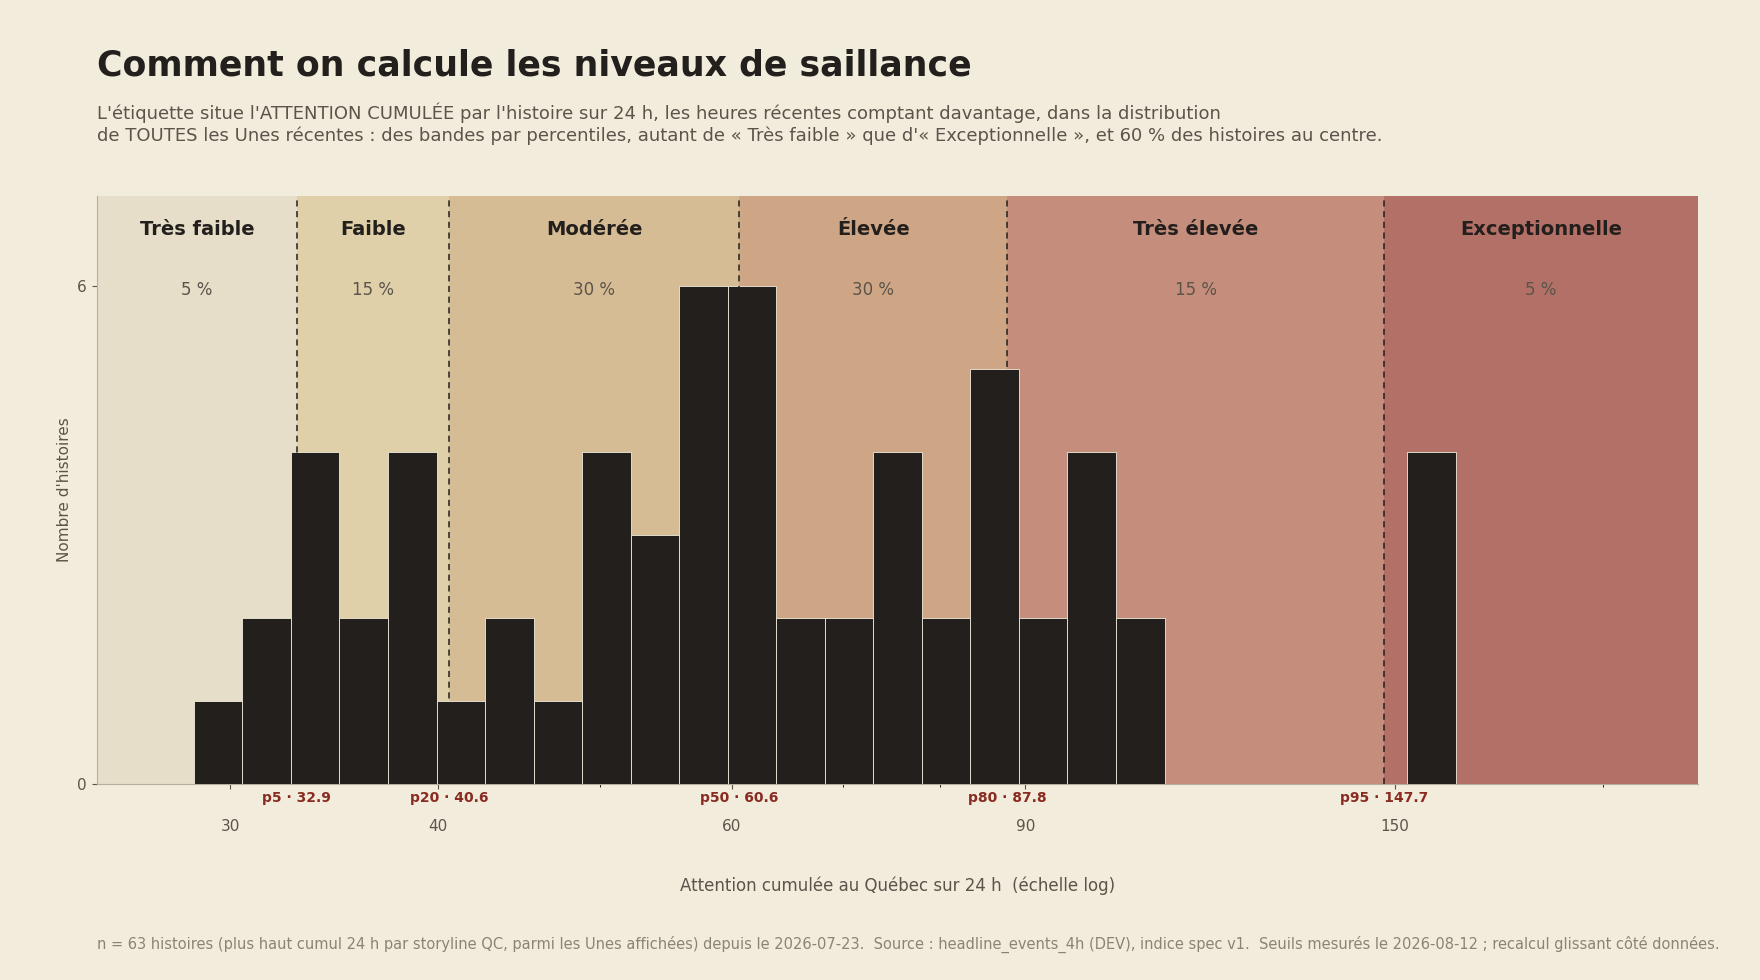
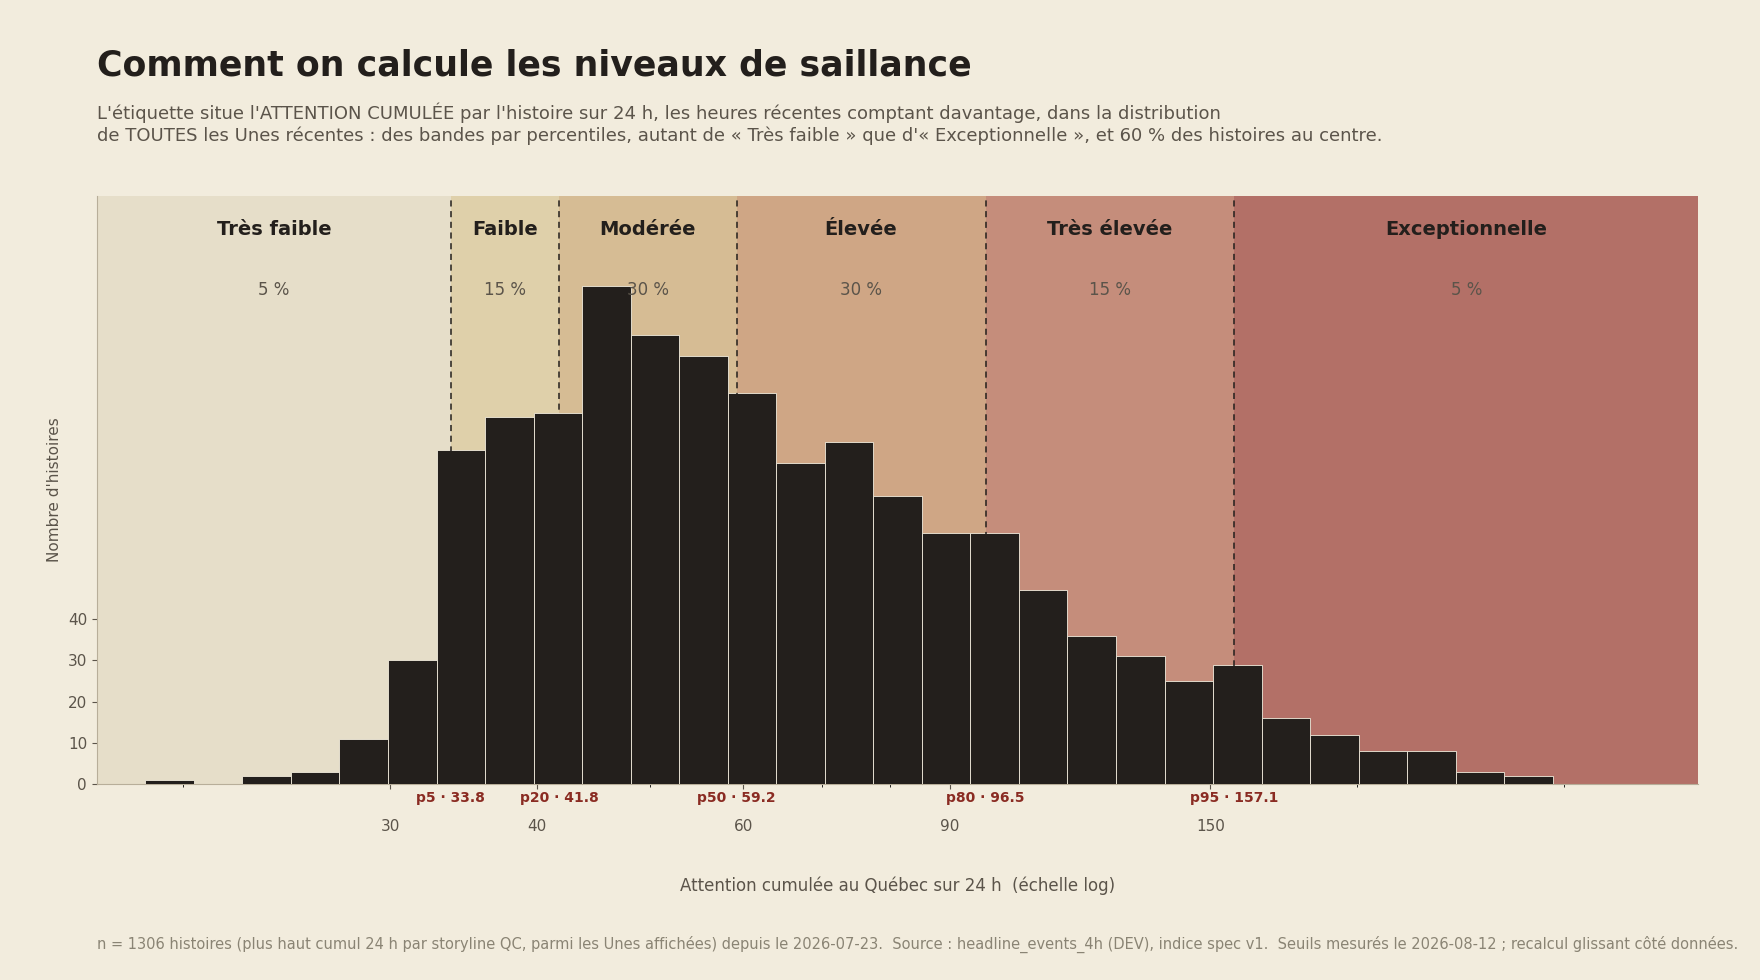
fix(saillance) : calibrer les grilles sur l'ANNÉE, pas sur 20 jours
Question d'Adrien : « fallait pas calculer les seuils sur une année de
données ? » Oui. Cette PR posait la fenêtre courte, et c'était une erreur.

CE QUI CLOCHAIT. `cutover_grilles_specv1.R` est câblé sur FROM = 2026-07-23
parce que `headline_events_4h` ne commence qu'au 2026-05-14 dans Athena et
n'est en régime de regroupement LLM qu'après le 23-07 : 122 blocs, n = 63. La
mesure du 11-08 au soir disait déjà ce que ça coûte — cette grille émet
**68 % d'« Exceptionnelle » de trop** (111 contre 66 sur l'année) et 15,5 %
des storylines y changent de bande. C'est la bande la plus visible du site.
J'ai suivi la marche générale de #429 sans tenir compte de la mesure qui la
corrigeait.

CE QUI CHANGE. `grilles_annee_specv1.R` — même recomposition spec v1, même
`grille_cumul`, mêmes filtres frontend, seule la SOURCE change (rejeu local
`out/year_llm.rds`, aucun appel AWS ; le rejeu n'ayant aucun titre LLM, le
filtre porte sur `event_title_raw`). Fenêtre 2025-05-17 → 2026-08-07 :
448 jours, 2 683 blocs, `storyline_id` peuplé à 100 %.

  cumul QC   32,9/40,6/60,6/87,8/147,7 → 33,8/41,8/59,2/96,5/157,1  (n=1306)
  cumul ROC  19,5/27,7/40,4/64,1/149,9 → 20,0/30,4/45,4/85,0/150,6  (n=1427)
  bloc QC    11,7/17,4/21,0/37,1/54,9  → 12,1/17,4/21,5/41,9/63,6   (n=8740)
  bloc ROC   11,5/15,9/19,8/41,2/61,4  → 11,3/15,9/20,0/37,2/59,6   (n=8633)

Mes chiffres retrouvent exactement ceux mesurés le 11-08, donc la
reconstruction est la bonne. Figure régénérée : les bandes réelles tombent à
[…]

diff --git a/lib/data/salienceCutover.ts b/lib/data/salienceCutover.ts
@@ -47,17 +47,35 @@ export const NEW_INDEX_SCALE = 100;
 // le classement changera de grille sans qu'une ligne de code bouge. C'est le
 // mécanisme voulu, mais il vaut d'être su — vérifier la concordance ce jour-là.
 //
-// MESURE (script `_chantiers-vitrine/banc-235/cutover_grilles_specv1.R`,
-// re-roulé le 2026-08-12 au matin de la bascule, scan Athena 4,3 Mo) :
+// MESURE (script `_chantiers-vitrine/banc-235/grilles_annee_specv1.R`, roulé le
+// 2026-08-12, AUCUN appel AWS — le rejeu local `out/year_llm.rds`) :
 //   · valeurs RECOMPOSÉES depuis le JSON `articles` à la spec v1, jamais lues
 //     dans la colonne publiée : depuis le bloc 15-19 du 2026-08-08 celle-ci
 //     mélange ancienne et nouvelle formule (#224), et calibrer sur un mélange
 //     est précisément le piège que #224 documente ;
-//   · fenêtre = régime regroupement-LLM (≥ 2026-07-23), 122 blocs ;
+//   · fenêtre = 2025-05-17 → 2026-08-07, soit 448 jours et 2 683 blocs,
+//     `storyline_id` peuplé à 100 % (régime de regroupement LLM partout, donc
+//     comparable au régime courant) ;
 //   · population = celle du frontend (dédup event_id préf-QC, exclusion des
 //     Unes américaines, titre requis), donc plus étroite que celle de #224 ;
 //   · conventions de calibration IDENTIQUES à scripts/fetch_data.R, grille par
 //     grille (voir chaque constante).
+//
+// ⚠ POURQUOI L'ANNÉE ET PAS LES 20 DERNIERS JOURS. La première version de cette
+// PR calibrait sur la seule fenêtre qu'Athena permet (≥ 2026-07-23, 122 blocs,
+// n = 63) parce que `headline_events_4h` ne commence qu'au 2026-05-14. Mesuré :
+// cette fenêtre courte émet **68 % d'« Exceptionnelle » de trop** (111 contre 66
+// sur l'année) et 15,5 % des storylines y changent de bande. C'est la bande la
+// plus visible du site. La grille d'année ne peut venir que du rejeu local, ou
+// d'aws-refiners#280 une fois la table peuplée.
+//
+// ⛔ CE N'EST TOUJOURS PAS `ref-AAAA`, la référence figée de vitrine#430 A0.
+// 95,5 % des jours de ce rejeu tournent à panel QC = 5 (TVA exclu) ; après le
+// recompute, TVA est partout et le seul changement de dénominateur ferait
+// passer le p95 de 157,1 à ~147,2. Geler ici, ce serait figer une année qui a
+// changé d'instrument en cours de route. L'ordre reste : réparer → rejouer →
+// geler, et la cible arrêtée avec Adrien le 2026-08-12 est `ref-2025`, une
+// année CIVILE complète, après le recompute.
 //
 // CONTRÔLE de la mesure : rejouée sur la convention de #224 (pic par storyline),
 // elle rend 19,6 / 22,1 / 38,5 / 56,2 / 65,3 contre 19,8 / 22,2 / 38,6 / 55,4 /
@@ -108,12 +126,33 @@ type Thresholds = { faible: number; moyenne: number; eleve: number; tresEleve: n
  *  à ce titre qu'il justifie le retrait de la béquille, pas au titre d'une
  *  impossibilité mathématique. À revérifier à chaque recalibration.
  *
- *  ✅ REVÉRIFIÉ le 2026-08-12, au matin de la bascule, et la consigne ci-dessus
- *  est désormais OUTILLÉE : `cutover_grilles_specv1.R` mesure lui-même le plus
- *  fort mono-média AU CUMUL (il ne donnait que celui des pics) et refuse la
- *  bascule si l'invariant tombe. Sur 122 blocs : max = 44,7 sur 2 storylines
- *  mono, médiane 60,6 → tenu, marge 15,9. Le maximum n'a pas bougé d'un dixième
- *  en quatre jours, ce qui est en soi rassurant sur sa stabilité.
+ *  ✅ REVÉRIFIÉ le 2026-08-12, et la consigne ci-dessus est désormais OUTILLÉE :
+ *  `cutover_grilles_specv1.R` mesure lui-même le plus fort mono-média AU CUMUL
+ *  (il ne donnait que celui des pics) et pèse l'ampleur d'un éventuel
+ *  dépassement.
+ *
+ *  🔎 ET LE CAS THÉORIQUE CI-DESSUS S'EST PRODUIT — une fois en 448 jours.
+ *  Sur la fenêtre courte (122 blocs) le plus fort mono-média vaut 44,7 contre
+ *  une médiane de 60,6. Sur l'ANNÉE (n = 1 306), il vaut 63,2 contre une médiane
+ *  de 59,2 : il franchit donc la médiane, de 4,0 points sur une bande large de
+ *  37,3, et atterrit dans le premier dixième d'« Élevée ».
+ *
+ *  Le cas est `story-hiroshima-0dc148fc` : Le Devoir, du samedi 2 août 2025 16 h
+ *  au dimanche 3 août 12 h, cinq blocs d'affilée, `outlets_qc = 1` tout du long
+ *  — le dossier de fin de semaine sur les 80 ans d'Hiroshima et Nagasaki. Une
+ *  commémoration datée d'avance, tenue en Une pendant que l'actualité chaude du
+ *  samedi soir se tarit, qu'aucun autre média n'avait de raison de suivre.
+ *
+ *  Ça ne remet PAS l'invariant en cause, et c'est même sa démonstration : la
+ *  Visibilité de ce dossier est au plancher (1 média sur 6), et le mécanisme
+ *  non-compensatoire a écrasé vingt heures de Une continue jusqu'à le ramener
+ *  au niveau d'une histoire médiane — 63,2 quand le p95 est à 157,1. L'ancien
+ *  indice, qui comptait le temps en Une, en aurait fait une nouvelle majeure.
+ *  Décision d'Adrien (2026-08-12) : 1 cas sur 37 mono, c'est une exception, pas
+ *  une rupture ; la béquille reste retirée. Le script ne parle de rupture que
+ *  si le dépassement devient courant (> 10 % des mono) ou franchement haut
+ *  (au-delà du p80) — un test binaire `max > médiane` escaladait un signal
+ *  faible.
  *
  *  Conséquence assumée : une histoire portée par un seul média peut désormais
  *  afficher « Modérée », dont l'infobulle dit « environ 65 % des Unes sont plus
@@ -124,7 +163,7 @@ type Thresholds = { faible: number; moyenne: number; eleve: number; tresEleve: n
  *  grille des CUMULS qui pilote le badge depuis vitrine#314 (27-07). Les deux
  *  ne sont pas la même distribution — d'où cette mesure dédiée. */
 export const NEW_SUM_QC_THRESHOLDS: Thresholds =
-  { faible: 32.9, moyenne: 40.6, eleve: 60.6, tresEleve: 87.8, extreme: 147.7 };
+  { faible: 33.8, moyenne: 41.8, eleve: 59.2, tresEleve: 96.5, extreme: 157.1 };
 
 /** Grille du niveau PAR BLOC (lecture au survol de la trajectoire) : réplique de
  *  `calibration_metric("salience_index_qc")`, toutes les valeurs > 0. n = 403.
@@ -132,7 +171,7 @@ export const NEW_SUM_QC_THRESHOLDS: Thresholds =
  *  Une, pas sur la lecture d'un bloc isolé — l'étendre ici serait une décision
  *  neuve, qui n'appartient pas à cette PR. */
 export const NEW_BLOCK_QC_THRESHOLDS: Thresholds =
-  { faible: 11.7, moyenne: 17.4, eleve: 21.0, tresEleve: 37.1, extreme: 54.9 };
+  { faible: 12.1, moyenne: 17.4, eleve: 21.5, tresEleve: 41.9, extreme: 63.6 };
 
 /** Côté ROC (bout de ligne du radar Deux solitudes) : mêmes conventions, avec
  *  `min_media_secondary = 1` comme fetch_data.R. n = 75.
@@ -156,12 +195,12 @@ export const NEW_BLOCK_QC_THRESHOLDS: Thresholds =
  *  quel que soit son nombre de médias, des deux côtés. L'asymétrie des seuils
  *  n'était pas la cause. */
 export const NEW_SUM_ROC_THRESHOLDS: Thresholds =
-  { faible: 19.5, moyenne: 27.7, eleve: 40.4, tresEleve: 64.1, extreme: 149.9 };
+  { faible: 20.0, moyenne: 30.4, eleve: 45.4, tresEleve: 85.0, extreme: 150.6 };
 
 /** Repli transitoire du côté ROC (scores par bloc), utilisé seulement si la
  *  grille cumulée ROC manque. n = 381. */
 export const NEW_BLOCK_ROC_THRESHOLDS: Thresholds =
-  { faible: 11.5, moyenne: 15.9, eleve: 19.8, tresEleve: 41.2, extreme: 61.4 };
+  { faible: 11.3, moyenne: 15.9, eleve: 20.0, tresEleve: 37.2, extreme: 59.6 };
 
 /** Passe une grille publiée en unités brutes [0,1] à l'échelle d'affichage.
  *  `null` reste `null` : c'est le signal « pas de calibration → prends le repli ». */

diff --git a/public/methodologie/index.html b/public/methodologie/index.html
@@ -572,7 +572,7 @@
     </div>
     <p class="metho-body">Les bandes sont symétriques&nbsp;: autant de « Très faible » que d'« Exceptionnelle », l'essentiel au centre. La médiane tombe entre « Modérée » et « Élevée », de sorte qu'aucune bande ne représente « la moyenne ». Les seuils sont recalculés à chaque mise à jour sur l'historique récent disponible, de sorte qu'« habituel » suit l'évolution réelle de l'actualité plutôt qu'une saison figée; à défaut, on retombe sur des seuils de référence fixes. Lorsque la façon de mesurer la saillance change, cet historique de référence repart de ce changement.</p>
     <p class="metho-body"><strong>Cette référence est provisoire, et il faut le savoir pour lire les niveaux.</strong> Parce qu'elle se recalcule sur l'historique disponible, une même valeur peut changer d'étiquette lorsque la distribution bouge sous elle&nbsp;: un niveau publié aujourd'hui se rapporte à la distribution du moment, et non à une référence datée. L'indice lui-même, lui, ne bouge pas&nbsp;— il est absolu par construction, et deux valeurs égales mesurent la même chose quelle que soit l'année. C'est la <em>lentille</em> qui est encore mobile, pas l'instrument. Une référence figée sur une année complète, datée et versionnée, est à l'étude pour y remédier. Le jour où elle sera posée, le changement sera <strong>annoncé</strong>&nbsp;: ou bien les niveaux déjà publiés resteront rattachés à la référence sous laquelle ils ont été calculés, ou bien tout sera recalculé sous la nouvelle et ce sera dit. Jamais un mélange des deux, et jamais en silence.</p>
-    <p class="metho-body">Une propriété mérite d'être signalée, parce qu'elle ne vient d'aucune règle ajoutée&nbsp;: une histoire portée par <strong>un seul média</strong> reste très bas sur l'échelle. La facette Visibilité y est presque nulle, et comme les trois facettes se multiplient au lieu de s'additionner, aucune des deux autres ne peut compenser&nbsp;— ni le nombre d'articles, ni le temps passé en Une. C'est la traduction d'un principe simple&nbsp;: la saillance décrit une attention <em>collective</em>, et un média seul, aussi insistant soit-il, ne fait pas un agenda. Sur toute la période observée, la plus forte histoire de ce type est restée <strong>nettement sous le niveau «&nbsp;Élevée&nbsp;»</strong>. Ce plafond est un constat de mesure et non une impossibilité&nbsp;: un média qui garderait seul une histoire en Une sans interruption pendant vingt-quatre heures pourrait en théorie le franchir. Ce cas ne s'est jamais présenté, et cette vérification est refaite à chaque recalibration.</p>
+    <p class="metho-body">Une propriété mérite d'être signalée, parce qu'elle ne vient d'aucune règle ajoutée&nbsp;: une histoire portée par <strong>un seul média</strong> reste très bas sur l'échelle. La facette Visibilité y est presque nulle, et comme les trois facettes se multiplient au lieu de s'additionner, aucune des deux autres ne peut compenser&nbsp;— ni le nombre d'articles, ni le temps passé en Une. C'est la traduction d'un principe simple&nbsp;: la saillance décrit une attention <em>collective</em>, et un média seul, aussi insistant soit-il, ne fait pas un agenda. Ce plafond est un constat de mesure et non une impossibilité&nbsp;: un média qui garderait seul une histoire en Une pendant près d'une journée entière peut le franchir. Sur quatorze mois, le cas s'est présenté <strong>une fois</strong>&nbsp;— un dossier de fond qu'un quotidien a tenu seul en Une une vingtaine d'heures, un samedi d'été, à l'occasion d'une commémoration. Cette histoire a tout juste atteint le bas du niveau «&nbsp;Élevée&nbsp;», loin des valeurs qu'atteignent les nouvelles suivies par l'ensemble des médias&nbsp;: vingt heures de Une continue, chez un seul journal, ne pèsent guère plus qu'une histoire ordinaire suivie par tous. La vérification est refaite à chaque recalibration.</p>
     <figure class="metho-figure">
       <img src="saillance-niveaux.png" alt="Distribution de l'attention cumulée sur 24 heures des Unes récentes, découpée en six bandes de percentiles, de la plus faible à la plus élevée.">
       <figcaption>Distribution réelle de l'attention cumulée sur 24 heures de toutes les Unes récentes, répartie en six bandes de percentiles. Échelle logarithmique.</figcaption>

diff --git a/docs/methodologie-03-spec-v1.html b/docs/methodologie-03-spec-v1.html
@@ -63,7 +63,7 @@
     </div>
     <p class="metho-body">Les bandes sont symétriques&nbsp;: autant de « Très faible » que d'« Exceptionnelle », l'essentiel au centre. La médiane tombe entre « Modérée » et « Élevée », de sorte qu'aucune bande ne représente « la moyenne ». Les seuils sont recalculés à chaque mise à jour sur l'historique récent disponible, de sorte qu'« habituel » suit l'évolution réelle de l'actualité plutôt qu'une saison figée; à défaut, on retombe sur des seuils de référence fixes. Lorsque la façon de mesurer la saillance change, cet historique de référence repart de ce changement.</p>
     <p class="metho-body"><strong>Cette référence est provisoire, et il faut le savoir pour lire les niveaux.</strong> Parce qu'elle se recalcule sur l'historique disponible, une même valeur peut changer d'étiquette lorsque la distribution bouge sous elle&nbsp;: un niveau publié aujourd'hui se rapporte à la distribution du moment, et non à une référence datée. L'indice lui-même, lui, ne bouge pas&nbsp;— il est absolu par construction, et deux valeurs égales mesurent la même chose quelle que soit l'année. C'est la <em>lentille</em> qui est encore mobile, pas l'instrument. Une référence figée sur une année complète, datée et versionnée, est à l'étude pour y remédier. Le jour où elle sera posée, le changement sera <strong>annoncé</strong>&nbsp;: ou bien les niveaux déjà publiés resteront rattachés à la référence sous laquelle ils ont été calculés, ou bien tout sera recalculé sous la nouvelle et ce sera dit. Jamais un mélange des deux, et jamais en silence.</p>
-    <p class="metho-body">Une propriété mérite d'être signalée, parce qu'elle ne vient d'aucune règle ajoutée&nbsp;: une histoire portée par <strong>un seul média</strong> reste très bas sur l'échelle. La facette Visibilité y est presque nulle, et comme les trois facettes se multiplient au lieu de s'additionner, aucune des deux autres ne peut compenser&nbsp;— ni le nombre d'articles, ni le temps passé en Une. C'est la traduction d'un principe simple&nbsp;: la saillance décrit une attention <em>collective</em>, et un média seul, aussi insistant soit-il, ne fait pas un agenda. Sur toute la période observée, la plus forte histoire de ce type est restée <strong>nettement sous le niveau «&nbsp;Élevée&nbsp;»</strong>. Ce plafond est un constat de mesure et non une impossibilité&nbsp;: un média qui garderait seul une histoire en Une sans interruption pendant vingt-quatre heures pourrait en théorie le franchir. Ce cas ne s'est jamais présenté, et cette vérification est refaite à chaque recalibration.</p>
+    <p class="metho-body">Une propriété mérite d'être signalée, parce qu'elle ne vient d'aucune règle ajoutée&nbsp;: une histoire portée par <strong>un seul média</strong> reste très bas sur l'échelle. La facette Visibilité y est presque nulle, et comme les trois facettes se multiplient au lieu de s'additionner, aucune des deux autres ne peut compenser&nbsp;— ni le nombre d'articles, ni le temps passé en Une. C'est la traduction d'un principe simple&nbsp;: la saillance décrit une attention <em>collective</em>, et un média seul, aussi insistant soit-il, ne fait pas un agenda. Ce plafond est un constat de mesure et non une impossibilité&nbsp;: un média qui garderait seul une histoire en Une pendant près d'une journée entière peut le franchir. Sur quatorze mois, le cas s'est présenté <strong>une fois</strong>&nbsp;— un dossier de fond qu'un quotidien a tenu seul en Une une vingtaine d'heures, un samedi d'été, à l'occasion d'une commémoration. Cette histoire a tout juste atteint le bas du niveau «&nbsp;Élevée&nbsp;», loin des valeurs qu'atteignent les nouvelles suivies par l'ensemble des médias&nbsp;: vingt heures de Une continue, chez un seul journal, ne pèsent guère plus qu'une histoire ordinaire suivie par tous. La vérification est refaite à chaque recalibration.</p>
     <figure class="metho-figure">
       <img src="saillance-niveaux.png" alt="Distribution de l'attention cumulée sur 24 heures des Unes récentes, découpée en six bandes de percentiles, de la plus faible à la plus élevée.">
       <figcaption>Distribution réelle de l'attention cumulée sur 24 heures de toutes les Unes récentes, répartie en six bandes de percentiles. Échelle logarithmique.</figcaption>

diff --git a/tests/salienceCutover.test.ts b/tests/salienceCutover.test.ts
@@ -139,13 +139,16 @@ describe("grilles de seuils du nouvel indice", () => {
   });
   it("la borne « Modérée » est bien le percentile brut, sans relèvement", () => {
     // Garde-fou anti-retour : si quelqu'un remet une béquille sans passer par
-    // #430, ce test le dit. 40,6 = p20 re-mesuré au matin de la bascule
-    // (2026-08-12) ; 45,0 était l'ancien relèvement, retiré le 09-08.
+    // #430, ce test le dit. 41,8 = p20 mesuré sur l'ANNÉE (n = 1 306) ; 45,0
+    // était l'ancien relèvement, retiré le 09-08.
     //
     // ⚠ Ce test est le seul endroit où une valeur de grille est écrite en dur
     // hors du module : à mettre à jour DÉLIBÉRÉMENT à chaque recalibration —
-    // c'est précisément son rôle de faire lever la main.
-    expect(NEW_SUM_QC_THRESHOLDS.moyenne).toBe(40.6);
+    // c'est précisément son rôle de faire lever la main. Il l'a fait le
+    // 2026-08-12 au passage de la fenêtre courte (40,6) à l'année (41,8), et
+    // c'est le SEUL des 290 tests qui a bougé : les autres dérivent de la
+    // grille, donc une recalibration ne les rend plus faussement rouges.
+    expect(NEW_SUM_QC_THRESHOLDS.moyenne).toBe(41.8);
     // Ce que le garde protège vraiment, au-delà du chiffre : la borne reste le
     // p20 nu, donc strictement sous la médiane, jamais poussée au-dessus du
     // maximum mono-média.

diff --git a/scripts/generate_saillance_levels.py b/scripts/generate_saillance_levels.py
@@ -16,7 +16,7 @@ cumul), parmi les Unes RÉELLEMENT AFFICHÉES.
 Le CSV est produit par le script de calibration lui-même, pour que la figure et les
 seuils ne puissent pas diverger :
 
-    cd _chantiers-vitrine/banc-235 && Rscript cutover_grilles_specv1.R
+    cd _chantiers-vitrine/banc-235 && Rscript grilles_annee_specv1.R
     # → out/cumul24h_qc.csv (et _roc.csv), déjà à l'échelle d'affichage ×100
 
 Usage :  python3 scripts/generate_saillance_levels.py [chemin_csv]
@@ -44,7 +44,7 @@ OUT = [
 # qui garde les anciennes bornes place les bandes au mauvais endroit sous un
 # histogramme juste. C'est `verifier_coherence_seuils()` plus bas qui le signale
 # maintenant — le commentaire seul ne suffisait pas.
-TH = [32.9, 40.6, 60.6, 87.8, 147.7]       # p5 / p20 / p50 / p80 / p95
+TH = [33.8, 41.8, 59.2, 96.5, 157.1]       # p5 / p20 / p50 / p80 / p95
 TS = "lib/data/salienceCutover.ts"         # la source de vérité des seuils
 
 
@@ -93,7 +93,7 @@ def charger_scores(chemin):
         sys.exit(
             f"ERREUR — CSV introuvable : {chemin}\n"
             f"Ce fichier n'est PAS versionné (il sort du banc de calibration). Le produire :\n"
-            f"    cd _chantiers-vitrine/banc-235 && Rscript cutover_grilles_specv1.R\n"
+            f"    cd _chantiers-vitrine/banc-235 && Rscript grilles_annee_specv1.R\n"
             f"puis relancer, au besoin en passant le chemin en argument :\n"
             f"    python3 scripts/generate_saillance_levels.py <chemin_csv>"
         )
@@ -121,7 +121,7 @@ ax.set_facecolor(PAPER)
 lo, hi = sc.min(), sc.max()
 # La marge de droite n'est pas cosmétique : la bande « Exceptionnelle » est
 # ouverte (tout ce qui dépasse le p95) et doit rester assez large pour porter son
-# étiquette. Avec le p95 du cumul (147,7) très proche du maximum observé, une
+# étiquette. Avec le p95 du cumul (157,1) très proche du maximum observé, une
 # marge de 10 % la réduisait à un liseré et le mot débordait du cadre.
 bins = np.logspace(np.log10(lo * 0.85), np.log10(hi * 1.45), 34)
 counts, edges = np.histogram(sc, bins=bins)
